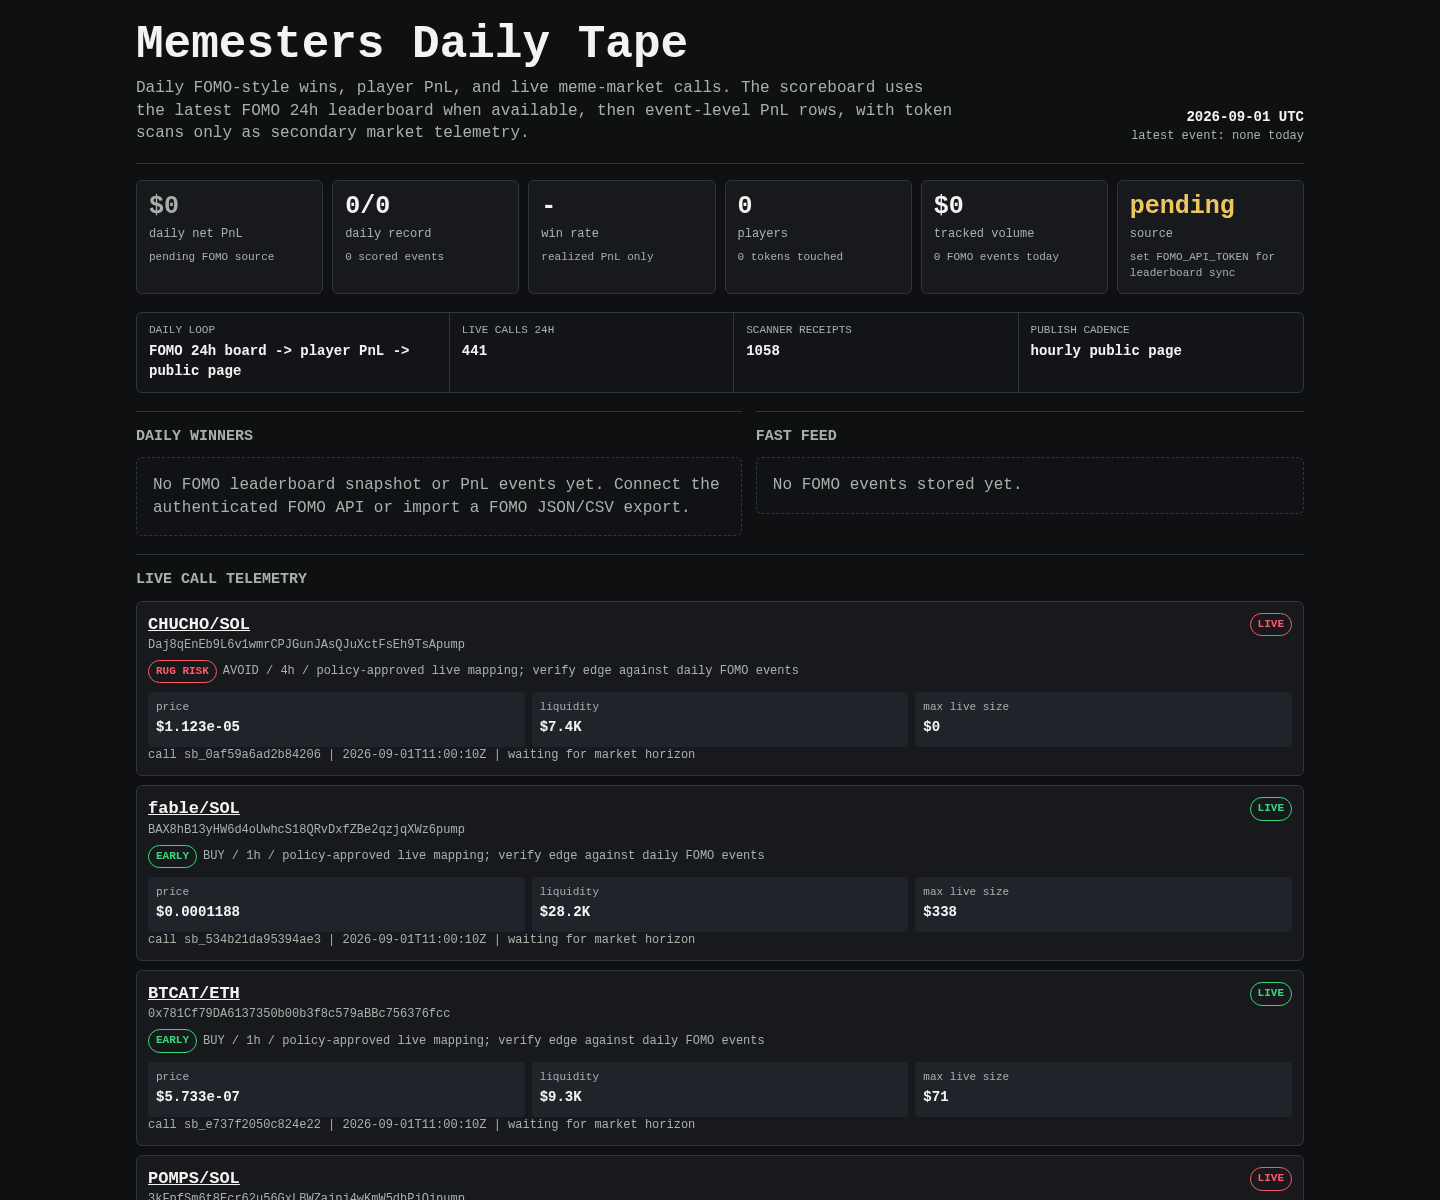
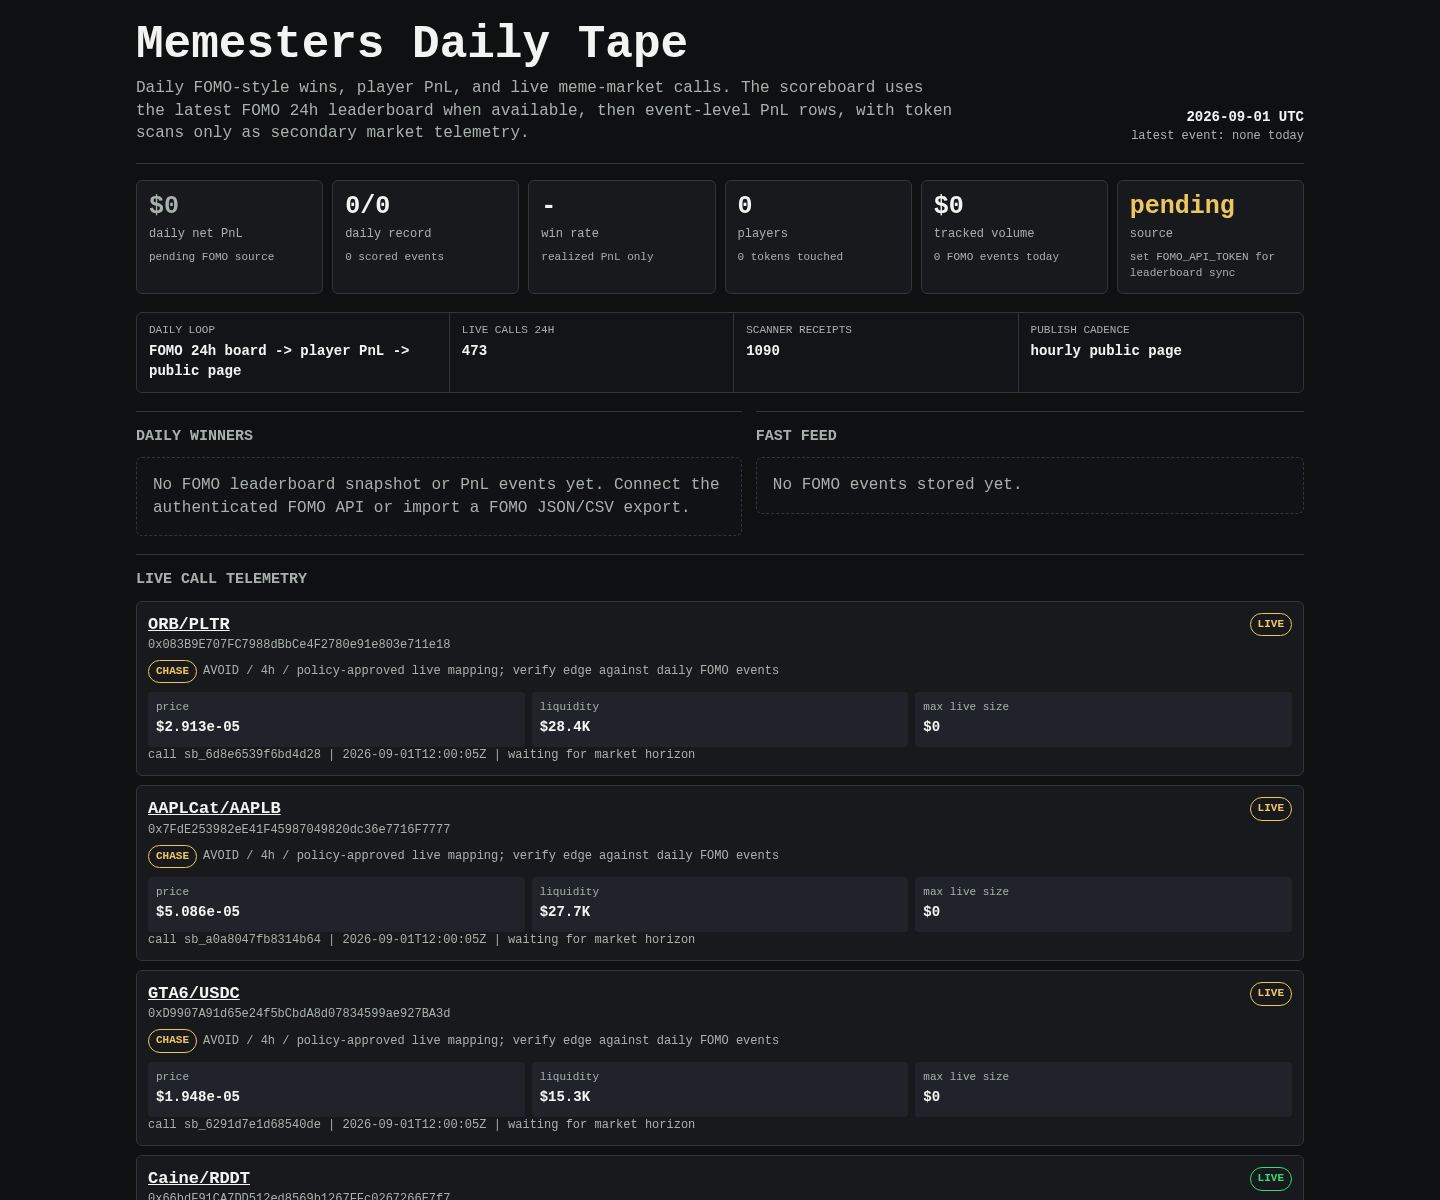
Update Memesters scoreboard

diff --git a/memesters/index.html b/memesters/index.html
@@ -149,8 +149,8 @@
 
     <div class="rail" aria-label="live operating loop">
       <div><span>daily loop</span><b>FOMO 24h board -> player PnL -> public page</b></div>
-      <div><span>live calls 24h</span><b>441</b></div>
-      <div><span>scanner receipts</span><b>1058</b></div>
+      <div><span>live calls 24h</span><b>473</b></div>
+      <div><span>scanner receipts</span><b>1090</b></div>
       <div><span>publish cadence</span><b>hourly public page</b></div>
     </div>
 
@@ -171,113 +171,8 @@
     <article class="receipt">
       <div class="receipt-head">
         <div>
-          <div class="pair"><a href="https://dexscreener.com/solana/9wpx1q7844aun8atx9f2t9c9m8hmjwrype9i8m6tcrmy">CHUCHO/SOL</a></div>
-          <div class="addr">Daj8qEnEb9L6v1wmrCPJGunJAsQJuXctFsEh9TsApump</div>
-          <div class="addr policy-line">
-            <span class="badge rug-risk">RUG RISK</span>
-            <span>AVOID / 4h / policy-approved live mapping; verify edge against daily FOMO events</span>
-          </div>
-        </div>
-        <span class="badge rug-risk">LIVE</span>
-      </div>
-      <div class="receipt-grid">
-        <div class="kv"><span>price</span><b>$1.123e-05</b></div>
-        <div class="kv"><span>liquidity</span><b>$7.4K</b></div>
-        <div class="kv"><span>max live size</span><b>$0</b></div>
-      </div>
-      <div class="outcomes">call sb_0af59a6ad2b84206 | 2026-09-01T11:00:10Z | waiting for market horizon</div>
-    </article>
-    
-
-    <article class="receipt">
-      <div class="receipt-head">
-        <div>
-          <div class="pair"><a href="https://dexscreener.com/solana/c1gqbapi1khy4ugtujcdezmmjgs8wymty8rxculgauhu">fable/SOL</a></div>
-          <div class="addr">BAX8hB13yHW6d4oUwhcS18QRvDxfZBe2qzjqXWz6pump</div>
-          <div class="addr policy-line">
-            <span class="badge early">EARLY</span>
-            <span>BUY / 1h / policy-approved live mapping; verify edge against daily FOMO events</span>
-          </div>
-        </div>
-        <span class="badge early">LIVE</span>
-      </div>
-      <div class="receipt-grid">
-        <div class="kv"><span>price</span><b>$0.0001188</b></div>
-        <div class="kv"><span>liquidity</span><b>$28.2K</b></div>
-        <div class="kv"><span>max live size</span><b>$338</b></div>
-      </div>
-      <div class="outcomes">call sb_534b21da95394ae3 | 2026-09-01T11:00:10Z | waiting for market horizon</div>
-    </article>
-    
-
-    <article class="receipt">
-      <div class="receipt-head">
-        <div>
-          <div class="pair"><a href="https://dexscreener.com/robinhood/0xa4488157546644aba5372bb44f01dcea66dc6b6dee74b6a982ab8a62b35122f5">BTCAT/ETH</a></div>
-          <div class="addr">0x781Cf79DA6137350b00b3f8c579aBBc756376fcc</div>
-          <div class="addr policy-line">
-            <span class="badge early">EARLY</span>
-            <span>BUY / 1h / policy-approved live mapping; verify edge against daily FOMO events</span>
-          </div>
-        </div>
-        <span class="badge early">LIVE</span>
-      </div>
-      <div class="receipt-grid">
-        <div class="kv"><span>price</span><b>$5.733e-07</b></div>
-        <div class="kv"><span>liquidity</span><b>$9.3K</b></div>
-        <div class="kv"><span>max live size</span><b>$71</b></div>
-      </div>
-      <div class="outcomes">call sb_e737f2050c824e22 | 2026-09-01T11:00:10Z | waiting for market horizon</div>
-    </article>
-    
-
-    <article class="receipt">
-      <div class="receipt-head">
-        <div>
-          <div class="pair"><a href="https://dexscreener.com/solana/hees5qkuxuupp73qgbowybdhdpwej7pe8dedblyewkgv">POMPS/SOL</a></div>
-          <div class="addr">3kFpfSm6t8Ecr62u56GxLBWZajpj4wKmW5dhPjQjpump</div>
-          <div class="addr policy-line">
-            <span class="badge rug-risk">RUG RISK</span>
-            <span>AVOID / 4h / policy-approved live mapping; verify edge against daily FOMO events</span>
-          </div>
-        </div>
-        <span class="badge rug-risk">LIVE</span>
-      </div>
-      <div class="receipt-grid">
-        <div class="kv"><span>price</span><b>$2.199e-06</b></div>
-        <div class="kv"><span>liquidity</span><b>$2.4K</b></div>
-        <div class="kv"><span>max live size</span><b>$0</b></div>
-      </div>
-      <div class="outcomes">call sb_75c9b91caff24071 | 2026-09-01T11:00:10Z | waiting for market horizon</div>
-    </article>
-    
-
-    <article class="receipt">
-      <div class="receipt-head">
-        <div>
-          <div class="pair"><a href="https://dexscreener.com/solana/ehnsaaqwnqqudpybzqwzicrsbn8euorgteydcus79nl2">Mebbi/SOL</a></div>
-          <div class="addr">Cp3uq6D1xj6B9tSdxB94EViwKD1EP4MTT7Xgp1wvpump</div>
-          <div class="addr policy-line">
-            <span class="badge early">EARLY</span>
-            <span>BUY / 1h / policy-approved live mapping; verify edge against daily FOMO events</span>
-          </div>
-        </div>
-        <span class="badge early">LIVE</span>
-      </div>
-      <div class="receipt-grid">
-        <div class="kv"><span>price</span><b>$2.792e-05</b></div>
-        <div class="kv"><span>liquidity</span><b>$12.5K</b></div>
-        <div class="kv"><span>max live size</span><b>$149</b></div>
-      </div>
-      <div class="outcomes">call sb_35619e21a1c64289 | 2026-09-01T11:00:10Z | waiting for market horizon</div>
-    </article>
-    
-
-    <article class="receipt">
-      <div class="receipt-head">
-        <div>
-          <div class="pair"><a href="https://dexscreener.com/robinhood/0xc53ff5484c1bf03d274e36fca3517be4261c4a9289756ad0c39fc6593cd43380">LLM/NVDA</a></div>
-          <div class="addr">0x334796C7A865892654E5d987756B1f9078B7b904</div>
+          <div class="pair"><a href="https://dexscreener.com/robinhood/0xdb775450383cb797f55923ac0cd66a0c465a1238b4f852ba1b2ef164ccd20927">ORB/PLTR</a></div>
+          <div class="addr">0x083B9E707FC7988dBbCe4F2780e91e803e711e18</div>
           <div class="addr policy-line">
             <span class="badge chase">CHASE</span>
             <span>AVOID / 4h / policy-approved live mapping; verify edge against daily FOMO events</span>
@@ -286,32 +181,158 @@
         <span class="badge chase">LIVE</span>
       </div>
       <div class="receipt-grid">
-        <div class="kv"><span>price</span><b>$0.0002729</b></div>
-        <div class="kv"><span>liquidity</span><b>$45.6K</b></div>
+        <div class="kv"><span>price</span><b>$2.913e-05</b></div>
+        <div class="kv"><span>liquidity</span><b>$28.4K</b></div>
         <div class="kv"><span>max live size</span><b>$0</b></div>
       </div>
-      <div class="outcomes">call sb_a27661e972df4fbf | 2026-09-01T11:00:10Z | waiting for market horizon</div>
+      <div class="outcomes">call sb_6d8e6539f6bd4d28 | 2026-09-01T12:00:05Z | waiting for market horizon</div>
     </article>
     
 
     <article class="receipt">
       <div class="receipt-head">
         <div>
-          <div class="pair"><a href="https://dexscreener.com/solana/9kffze1jdhi4jlfs6nvyyayvtanbrabwhnpmsofrbxto">casino/SOL</a></div>
-          <div class="addr">B3EfbCpWuNm9rtCkaYcQZYe3fcgAmsgAGyYBhZFzpump</div>
+          <div class="pair"><a href="https://dexscreener.com/bsc/0xc1665fc56c71ee7d452da78bb2b10c4852011d0c">AAPLCat/AAPLB</a></div>
+          <div class="addr">0x7FdE253982eE41F45987049820dc36e7716F7777</div>
           <div class="addr policy-line">
-            <span class="badge rug-risk">RUG RISK</span>
+            <span class="badge chase">CHASE</span>
             <span>AVOID / 4h / policy-approved live mapping; verify edge against daily FOMO events</span>
           </div>
         </div>
-        <span class="badge rug-risk">LIVE</span>
+        <span class="badge chase">LIVE</span>
       </div>
       <div class="receipt-grid">
-        <div class="kv"><span>price</span><b>$3.028e-06</b></div>
-        <div class="kv"><span>liquidity</span><b>$2.9K</b></div>
+        <div class="kv"><span>price</span><b>$5.086e-05</b></div>
+        <div class="kv"><span>liquidity</span><b>$27.7K</b></div>
         <div class="kv"><span>max live size</span><b>$0</b></div>
       </div>
-      <div class="outcomes">call sb_3bc39bed725d4cfd | 2026-09-01T11:00:10Z | waiting for market horizon</div>
+      <div class="outcomes">call sb_a0a8047fb8314b64 | 2026-09-01T12:00:05Z | waiting for market horizon</div>
+    </article>
+    
+
+    <article class="receipt">
+      <div class="receipt-head">
+        <div>
+          <div class="pair"><a href="https://dexscreener.com/pulsechain/0x09da51c9e5799443060e90143dbf92bf61a6892f">GTA6/USDC</a></div>
+          <div class="addr">0xD9907A91d65e24f5bCbdA8d07834599ae927BA3d</div>
+          <div class="addr policy-line">
+            <span class="badge chase">CHASE</span>
+            <span>AVOID / 4h / policy-approved live mapping; verify edge against daily FOMO events</span>
+          </div>
+        </div>
+        <span class="badge chase">LIVE</span>
+      </div>
+      <div class="receipt-grid">
+        <div class="kv"><span>price</span><b>$1.948e-05</b></div>
+        <div class="kv"><span>liquidity</span><b>$15.3K</b></div>
+        <div class="kv"><span>max live size</span><b>$0</b></div>
+      </div>
+      <div class="outcomes">call sb_6291d7e1d68540de | 2026-09-01T12:00:05Z | waiting for market horizon</div>
+    </article>
+    
+
+    <article class="receipt">
+      <div class="receipt-head">
+        <div>
+          <div class="pair"><a href="https://dexscreener.com/robinhood/0x3d5118a5a2f112107e77541ab73a329f549e5f0a07f5166e0da3c604f222cd69">Caine/RDDT</a></div>
+          <div class="addr">0x66bdF91CA7DD512ed8569b1267FFc0267266E7f7</div>
+          <div class="addr policy-line">
+            <span class="badge early">EARLY</span>
+            <span>BUY / 1h / policy-approved live mapping; verify edge against daily FOMO events</span>
+          </div>
+        </div>
+        <span class="badge early">LIVE</span>
+      </div>
+      <div class="receipt-grid">
+        <div class="kv"><span>price</span><b>$2.898e-05</b></div>
+        <div class="kv"><span>liquidity</span><b>$12.7K</b></div>
+        <div class="kv"><span>max live size</span><b>$153</b></div>
+      </div>
+      <div class="outcomes">call sb_6b94b3ab88214fc4 | 2026-09-01T12:00:05Z | waiting for market horizon</div>
+    </article>
+    
+
+    <article class="receipt">
+      <div class="receipt-head">
+        <div>
+          <div class="pair"><a href="https://dexscreener.com/robinhood/0x58e26002cc288f52cd5e410e9f50230e37b5f5ac77a50f3e649d87228f575b50">STOX/ETH</a></div>
+          <div class="addr">0x97c60466c6B341c628FE4FC54e10A4fdF5f2CB73</div>
+          <div class="addr policy-line">
+            <span class="badge early">EARLY</span>
+            <span>BUY / 1h / policy-approved live mapping; verify edge against daily FOMO events</span>
+          </div>
+        </div>
+        <span class="badge early">LIVE</span>
+      </div>
+      <div class="receipt-grid">
+        <div class="kv"><span>price</span><b>$4.67e-05</b></div>
+        <div class="kv"><span>liquidity</span><b>$19.8K</b></div>
+        <div class="kv"><span>max live size</span><b>$238</b></div>
+      </div>
+      <div class="outcomes">call sb_51ec4be996a44e9d | 2026-09-01T12:00:05Z | waiting for market horizon</div>
+    </article>
+    
+
+    <article class="receipt">
+      <div class="receipt-head">
+        <div>
+          <div class="pair"><a href="https://dexscreener.com/solana/4gdzamblogacwkvwncdzakiqq3fjidtaqmwth3gi8m4i">SLUCE/SOL</a></div>
+          <div class="addr">9Qd95G3TKB61py4TURSTBka6GntAj2xzvbGp3kLTpump</div>
+          <div class="addr policy-line">
+            <span class="badge early">EARLY</span>
+            <span>BUY / 1h / policy-approved live mapping; verify edge against daily FOMO events</span>
+          </div>
+        </div>
+        <span class="badge early">LIVE</span>
+      </div>
+      <div class="receipt-grid">
+        <div class="kv"><span>price</span><b>$3.987e-05</b></div>
+        <div class="kv"><span>liquidity</span><b>$15.2K</b></div>
+        <div class="kv"><span>max live size</span><b>$182</b></div>
+      </div>
+      <div class="outcomes">call sb_cf237be83f614640 | 2026-09-01T12:00:05Z | waiting for market horizon</div>
+    </article>
+    
+
+    <article class="receipt">
+      <div class="receipt-head">
+        <div>
+          <div class="pair"><a href="https://dexscreener.com/robinhood/0x62e9d888f0a5ac01ceb645b548b0eb18e0ee921784649fe365ce8baec5ebdc67">OP/SNDK</a></div>
+          <div class="addr">0xF25Ccb1036C41e953F84eC9F3cC72f8d73953214</div>
+          <div class="addr policy-line">
+            <span class="badge early">EARLY</span>
+            <span>BUY / 1h / policy-approved live mapping; verify edge against daily FOMO events</span>
+          </div>
+        </div>
+        <span class="badge early">LIVE</span>
+      </div>
+      <div class="receipt-grid">
+        <div class="kv"><span>price</span><b>$0.0002082</b></div>
+        <div class="kv"><span>liquidity</span><b>$41.9K</b></div>
+        <div class="kv"><span>max live size</span><b>$503</b></div>
+      </div>
+      <div class="outcomes">call sb_2a73ab05d89144e0 | 2026-09-01T12:00:05Z | waiting for market horizon</div>
+    </article>
+    
+
+    <article class="receipt">
+      <div class="receipt-head">
+        <div>
+          <div class="pair"><a href="https://dexscreener.com/robinhood/0x3d87170dc7fff0f19017dbe81fa1494c31e5fcd56fefdfa484245f8836eed852">HC/COIN</a></div>
+          <div class="addr">0xf73C9F4f6570274aF9127a7c4B082aeBf0021E18</div>
+          <div class="addr policy-line">
+            <span class="badge early">EARLY</span>
+            <span>BUY / 1h / policy-approved live mapping; verify edge against daily FOMO events</span>
+          </div>
+        </div>
+        <span class="badge early">LIVE</span>
+      </div>
+      <div class="receipt-grid">
+        <div class="kv"><span>price</span><b>$2.243e-05</b></div>
+        <div class="kv"><span>liquidity</span><b>$22.4K</b></div>
+        <div class="kv"><span>max live size</span><b>$37</b></div>
+      </div>
+      <div class="outcomes">call sb_969d8e42c2ad4547 | 2026-09-01T12:00:05Z | waiting for market horizon</div>
     </article>
     
 
@@ -321,27 +342,6 @@
           <div class="pair"><a href="https://dexscreener.com/robinhood/0x1907d4beab04c8bee5744e792c00cfe1cf50633632a540f3df6eed717cdbce45">MOBB/ETH</a></div>
           <div class="addr">0x0172AD9020D6eE43346d50C288A4Bf705da87E8d</div>
           <div class="addr policy-line">
-            <span class="badge chase">CHASE</span>
-            <span>AVOID / 4h / policy-approved live mapping; verify edge against daily FOMO events</span>
-          </div>
-        </div>
-        <span class="badge chase">LIVE</span>
-      </div>
-      <div class="receipt-grid">
-        <div class="kv"><span>price</span><b>$0.0001495</b></div>
-        <div class="kv"><span>liquidity</span><b>$35.5K</b></div>
-        <div class="kv"><span>max live size</span><b>$0</b></div>
-      </div>
-      <div class="outcomes">call sb_b0aa314ff8a7476b | 2026-09-01T11:00:10Z | waiting for market horizon</div>
-    </article>
-    
-
-    <article class="receipt">
-      <div class="receipt-head">
-        <div>
-          <div class="pair"><a href="https://dexscreener.com/robinhood/0x302362f5022f3fd49c7aebb91271e1364bd2d32c337ba24cb49960bb44140c12">MarsGuy/ETH</a></div>
-          <div class="addr">0x7A58Bb4e0D4C5f36113dfB7D00302A8e7D8E26de</div>
-          <div class="addr policy-line">
             <span class="badge rug-risk">RUG RISK</span>
             <span>AVOID / 4h / policy-approved live mapping; verify edge against daily FOMO events</span>
           </div>
@@ -349,19 +349,19 @@
         <span class="badge rug-risk">LIVE</span>
       </div>
       <div class="receipt-grid">
-        <div class="kv"><span>price</span><b>$7.828e-05</b></div>
-        <div class="kv"><span>liquidity</span><b>$25.2K</b></div>
+        <div class="kv"><span>price</span><b>$4.908e-05</b></div>
+        <div class="kv"><span>liquidity</span><b>$20.4K</b></div>
         <div class="kv"><span>max live size</span><b>$0</b></div>
       </div>
-      <div class="outcomes">call sb_be741179298b4878 | 2026-09-01T10:45:06Z | waiting for market horizon</div>
+      <div class="outcomes">call sb_3b6f13ddec1b4b97 | 2026-09-01T11:45:05Z | waiting for market horizon</div>
     </article>
     
 
     <article class="receipt">
       <div class="receipt-head">
         <div>
-          <div class="pair"><a href="https://dexscreener.com/robinhood/0xaa89595e0487743286a3715be3da3fedbb497db3235bf99d256ba14aaccdb1b2">fable/USDG</a></div>
-          <div class="addr">0x9Fe1A89c2B5A702dD2F5EB9F783A08e3d6Cec737</div>
+          <div class="pair"><a href="https://dexscreener.com/robinhood/0x7c359c1ea87db92442a7a764a1a3b10e287e73a5e9e66ea8a42813f0681f28ae">SAY/TSLA</a></div>
+          <div class="addr">0x52F58C30b7Ea55C8fA1524a5bf74FaeAE416b4CD</div>
           <div class="addr policy-line">
             <span class="badge chase">CHASE</span>
             <span>AVOID / 4h / policy-approved live mapping; verify edge against daily FOMO events</span>
@@ -370,11 +370,11 @@
         <span class="badge chase">LIVE</span>
       </div>
       <div class="receipt-grid">
-        <div class="kv"><span>price</span><b>$0.008379</b></div>
-        <div class="kv"><span>liquidity</span><b>$352.8K</b></div>
+        <div class="kv"><span>price</span><b>$2.21e-05</b></div>
+        <div class="kv"><span>liquidity</span><b>$16.0K</b></div>
         <div class="kv"><span>max live size</span><b>$0</b></div>
       </div>
-      <div class="outcomes">call sb_06b030b7e3fb4770 | 2026-09-01T10:45:06Z | waiting for market horizon</div>
+      <div class="outcomes">call sb_dc36b39b04804569 | 2026-09-01T11:45:05Z | waiting for market horizon</div>
     </article>
     
     </section>
